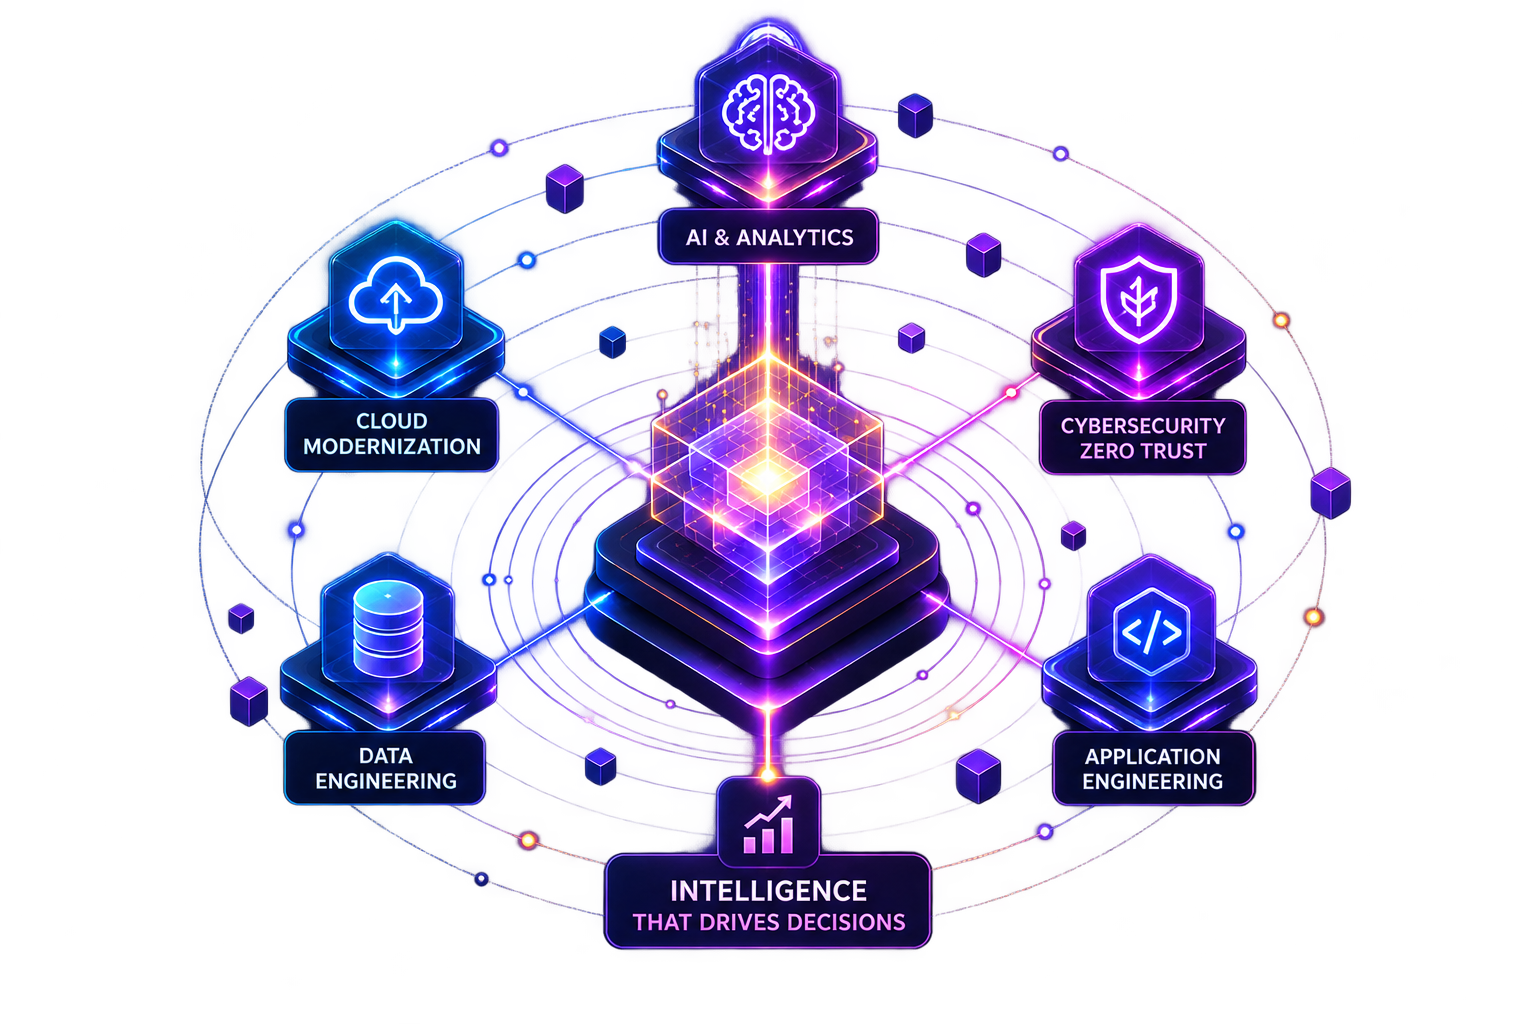
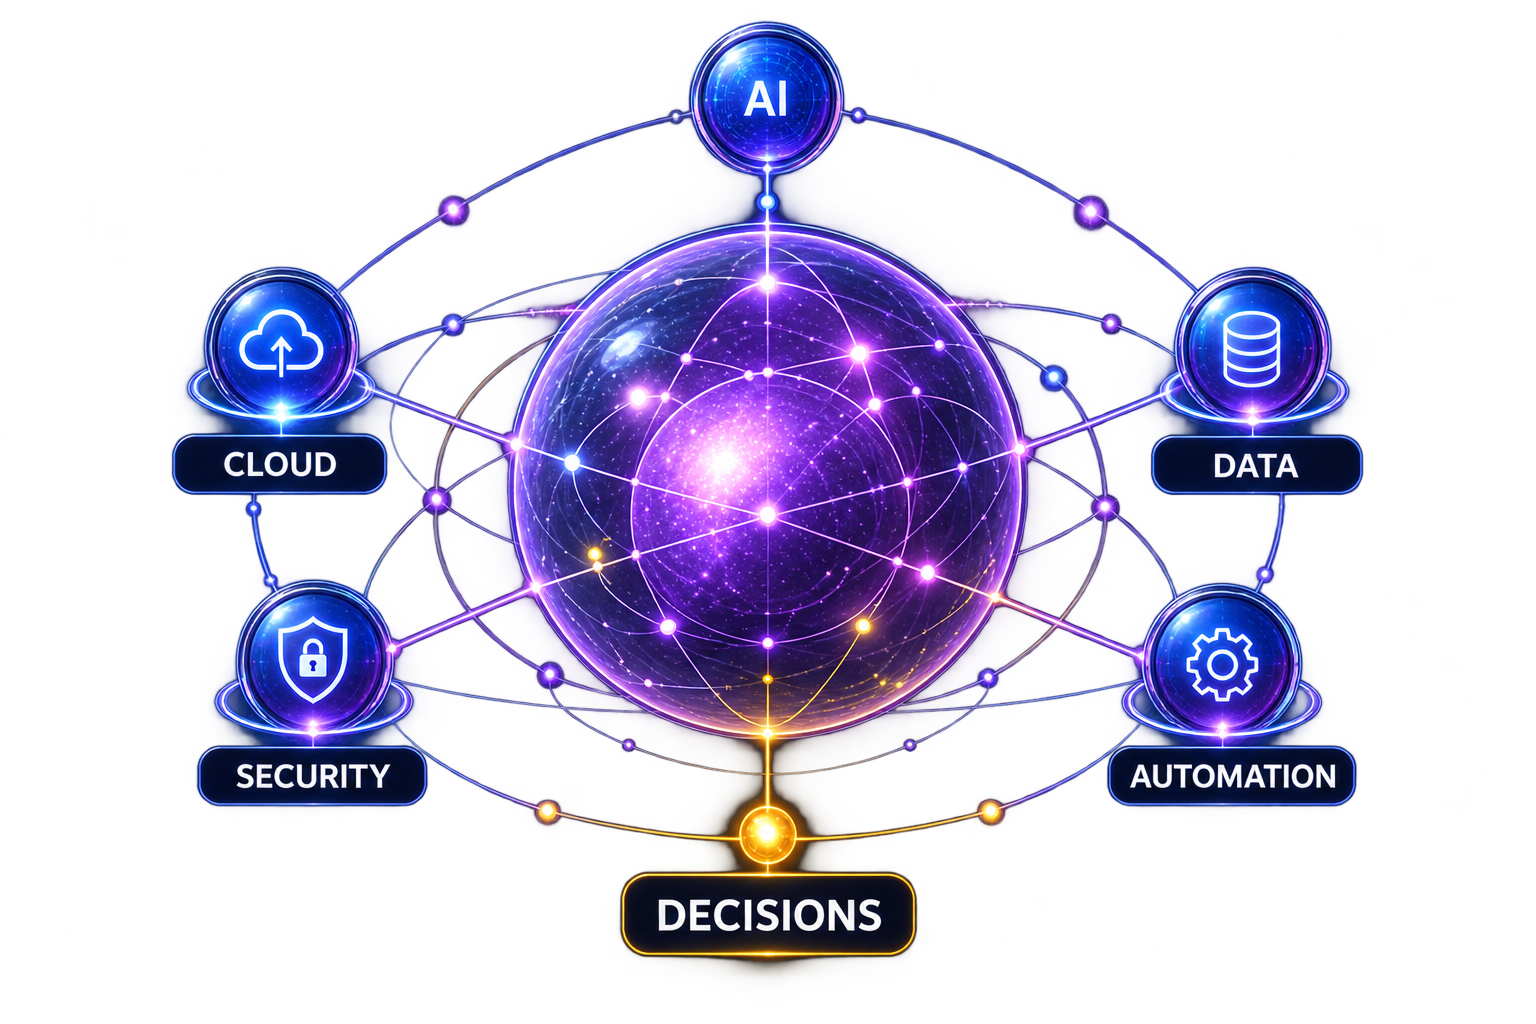
Fix

diff --git a/frontend/app/api/[...route]/route.js b/frontend/app/api/[...route]/route.js
@@ -1,0 +1,156 @@
+import { NextResponse } from 'next/server';
+import fs from 'fs';
+import path from 'path';
+
+import usersData from '../../../data/users.json';
+import leadsData from '../../../data/leads.json';
+import servicesData from '../../../data/services.json';
+import ordersData from '../../../data/orders.json';
+
+// In-memory fallback for Vercel Serverless where FS is read-only
+let memoryStore = {
+  users: usersData,
+  leads: leadsData,
+  services: servicesData,
+  orders: ordersData
+};
+
+function getStore(name) {
+  return memoryStore[name] || [];
+}
+
+function setStore(name, data) {
+  memoryStore[name] = data;
+  try {
+    const filePath = path.join(process.cwd(), 'data', `${name}.json`);
+    fs.writeFileSync(filePath, JSON.stringify(data, null, 2), 'utf-8');
+  } catch (err) {
+    console.warn(`Failed to write to ${name}.json (likely on Vercel read-only FS). Using memory store.`);
+  }
+}
+
+export async function GET(request, { params }) {
+  const url = new URL(request.url);
+  const route = params.route.join('/');
+  
+  if (route === 'admin/users') return NextResponse.json({ success: true, users: getStore('users') });
+  if (route === 'admin/leads') return NextResponse.json({ success: true, leads: getStore('leads') });
+  if (route === 'admin/orders') return NextResponse.json({ success: true, orders: getStore('orders') });
+  if (route === 'admin/services') return NextResponse.json({ success: true, services: getStore('services') });
+
+  if (route === 'user/profile') {
+    const token = request.headers.get('authorization')?.replace('Bearer ', '');
+    const user = getStore('users').find(u => 'mock-token-' + u._id === token);
+    const orders = getStore('orders').filter(o => o.userEmail === user?.email);
+    return NextResponse.json({ success: true, profile: user, orders });
+  }
+
+  return NextResponse.json({ error: 'Not Found' }, { status: 404 });
+}
+
+export async function POST(request, { params }) {
+  const route = params.route.join('/');
+  const body = await request.json().catch(() => ({}));
+
+  if (route === 'auth/register') {
+    const users = getStore('users');
+    if (users.find(u => u.email === body.email)) {
+      return NextResponse.json({ error: 'Email already exists' }, { status: 400 });
+    }
+    const newUser = { _id: Date.now().toString(), ...body, createdAt: new Date().toISOString() };
+    users.push(newUser);
+    setStore('users', users);
+    return NextResponse.json({ success: true, token: 'mock-token-' + newUser._id, user: { name: newUser.name, email: newUser.email } });
+  }
+
+  if (route === 'auth/login') {
+    const users = getStore('users');
+    const user = users.find(u => u.email === body.email && u.password === body.password);
+    if (!user) return NextResponse.json({ error: 'Invalid credentials' }, { status: 400 });
+    return NextResponse.json({ success: true, token: 'mock-token-' + user._id, user: { name: user.name, email: user.email } });
+  }
+
+  if (route === 'admin/login') {
+    return NextResponse.json({ success: true, token: 'admin-mock-token' });
+  }
+
+  if (route === 'leads') {
+    const leads = getStore('leads');
+    leads.push({ _id: Date.now().toString(), ...body, status: 'New', createdAt: new Date().toISOString() });
+    setStore('leads', leads);
+    return NextResponse.json({ success: true });
+  }
+
+  if (route === 'admin/services') {
+    const services = getStore('services');
+    services.push({ _id: Date.now().toString(), ...body });
+    setStore('services', services);
+    return NextResponse.json({ success: true });
+  }
+
+  if (route === 'checkout') {
+    const token = request.headers.get('authorization')?.replace('Bearer ', '');
+    const user = getStore('users').find(u => 'mock-token-' + u._id === token);
+    const email = user ? user.email : body.email || 'guest@example.com';
+    
+    const orders = getStore('orders');
+    orders.push({
+      _id: Date.now().toString(),
+      orderId: `ORD-${Date.now()}`,
+      userEmail: email,
+      items: body.items,
+      totalPrice: body.items.reduce((acc, i) => acc + (parseFloat(i.price) * (i.quantity||1)), 0),
+      createdAt: new Date().toISOString()
+    });
+    setStore('orders', orders);
+    return NextResponse.json({ success: true });
+  }
+
+  return NextResponse.json({ error: 'Not Found' }, { status: 404 });
+}
+
+export async function PUT(request, { params }) {
+  const route = params.route.join('/');
+  const body = await request.json().catch(() => ({}));
+
+  if (route.startsWith('admin/leads/')) {
+    const id = params.route[params.route.length - 1];
+    let leads = getStore('leads');
+    leads = leads.map(l => l._id === id ? { ...l, ...body } : l);
+    setStore('leads', leads);
+    return NextResponse.json({ success: true });
+  }
+
+  if (route.startsWith('admin/services/')) {
+    const id = params.route[params.route.length - 1];
+    let services = getStore('services');
+    services = services.map(s => s._id === id ? { ...s, ...body } : s);
+    setStore('services', services);
+    return NextResponse.json({ success: true });
+  }
+
+  if (route === 'user/profile') {
+    const token = request.headers.get('authorization')?.replace('Bearer ', '');
+    const userId = token.replace('mock-token-', '');
+    let users = getStore('users');
+    users = users.map(u => u._id === userId ? { ...u, ...body } : u);
+    setStore('users', users);
+    return NextResponse.json({ success: true });
+  }
+
+  return NextResponse.json({ error: 'Not Found' }, { status: 404 });
+}
+
+export async function DELETE(request, { params }) {
+  const route = params.route.join('/');
+
+  if (route.startsWith('admin/services/')) {
+    const id = params.route[params.route.length - 1];
+    let services = getStore('services');
+    services = services.filter(s => s._id !== id);
+    setStore('services', services);
+    return NextResponse.json({ success: true });
+  }
+
+  return NextResponse.json({ error: 'Not Found' }, { status: 404 });
+}

diff --git a/frontend/app/dashboard/page.js b/frontend/app/dashboard/page.js
@@ -42,7 +42,7 @@ export default function DashboardPage() {
       if (!user) return;
       try {
         const token = localStorage.getItem('token');
-        const res = await fetch(`${process.env.NEXT_PUBLIC_API_URL || 'http://localhost:5015'}/api/user/profile`, {
+        const res = await fetch(`${''}/api/user/profile`, {
           headers: {
             'Authorization': `Bearer ${token}`
           }
@@ -68,7 +68,7 @@ export default function DashboardPage() {
     setSaving(true);
     try {
       const token = localStorage.getItem('token');
-      const res = await fetch(`${process.env.NEXT_PUBLIC_API_URL || 'http://localhost:5015'}/api/user/profile`, {
+      const res = await fetch(`${''}/api/user/profile`, {
         method: 'PUT',
         headers: {
           'Content-Type': 'application/json',
@@ -158,7 +158,7 @@ export default function DashboardPage() {
                     className={`w-full flex items-center gap-3 px-4 py-2.5 rounded-lg text-[13.5px] font-semibold transition-all ${activeTab === 'orders' ? 'bg-[#faf7f2] text-[#8c6b12] border border-[#e5dccf]' : 'text-[#5c5449] hover:bg-[#faf7f2]/50 hover:text-[#1c1a18] border border-transparent'}`}
                   >
                     <Package className="h-4 w-4" />
-                    Consultation History
+                    Order History
                   </button>
                   <button
                     onClick={() => setActiveTab('settings')}
@@ -185,14 +185,14 @@ export default function DashboardPage() {
               {activeTab === 'orders' && (
                 <div className="bg-white border border-[#e5dccf] shadow-[0_4px_20px_rgba(0,0,0,0.02)] rounded-xl p-8">
                   <div className="mb-6 border-b border-[#e5dccf] pb-4">
-                    <h3 className="text-xl font-cabinet font-medium text-[#1c1a18] tracking-tight">Consultation History</h3>
-                    <p className="text-[13px] text-[#71675b] mt-1 font-light">View your past strategy and architecture consultations.</p>
+                    <h3 className="text-xl font-cabinet font-medium text-[#1c1a18] tracking-tight">Order History</h3>
+                    <p className="text-[13px] text-[#71675b] mt-1 font-light">View your past orders and their status.</p>
                   </div>
                   
                   {orders.length === 0 ? (
                     <div className="text-center py-16 text-[#71675b]">
                       <Package className="h-10 w-10 mx-auto mb-4 text-[#dad2c3]" />
-                      <p className="text-[14px]">You have no past consultations.</p>
+                      <p className="text-[14px]">You have no past orders.</p>
                     </div>
                   ) : (
                     <div className="overflow-x-auto">
@@ -251,7 +251,7 @@ export default function DashboardPage() {
                                           <ul className="list-disc list-inside space-y-1">
                                             {order.items?.map((item, idx) => (
                                               <li key={idx}><span className="font-semibold text-[#1c1a18]">{item.title}</span> - ₹{item.price.toLocaleString()}</li>
-                                            )) || <li>Standard Consultation</li>}
+                                            )) || <li>Standard Order</li>}
                                           </ul>
                                         </div>
                                         <div className="md:col-span-2">

diff --git a/frontend/app/admin/page.js b/frontend/app/admin/page.js
@@ -30,7 +30,7 @@ export default function AdminPage() {
     e.preventDefault();
     setLoading(true);
     try {
-      const res = await fetch(`${process.env.NEXT_PUBLIC_API_URL || 'http://localhost:5015'}/api/admin/login`, {
+      const res = await fetch(`${''}/api/admin/login`, {
         method: 'POST',
         headers: { 'Content-Type': 'application/json' },
         body: JSON.stringify({ password, otp })
@@ -58,7 +58,7 @@ export default function AdminPage() {
   // 2. Data Fetching
   const fetchAllData = async (jwt) => {
     const headers = { 'Authorization': `Bearer ${jwt}` };
-    const baseUrl = process.env.NEXT_PUBLIC_API_URL || 'http://localhost:5015';
+    const baseUrl = '';
     try {
       const [leadsRes, usersRes, ordersRes, servicesRes] = await Promise.all([
         fetch(`${baseUrl}/api/admin/leads`, { headers }),
@@ -91,7 +91,7 @@ export default function AdminPage() {
   // 3. Handlers
   const updateLeadField = async (id, data) => {
     try {
-      const res = await fetch(`${process.env.NEXT_PUBLIC_API_URL || 'http://localhost:5015'}/api/admin/leads/${id}`, {
+      const res = await fetch(`${''}/api/admin/leads/${id}`, {
         method: 'PUT',
         headers: { 'Content-Type': 'application/json', 'Authorization': `Bearer ${token}` },
         body: JSON.stringify(data)
@@ -117,8 +117,8 @@ export default function AdminPage() {
       
       const method = editingServiceId ? 'PUT' : 'POST';
       const url = editingServiceId 
-        ? `${process.env.NEXT_PUBLIC_API_URL || 'http://localhost:5015'}/api/admin/services/${editingServiceId}`
-        : `${process.env.NEXT_PUBLIC_API_URL || 'http://localhost:5015'}/api/admin/services`;
+        ? `${''}/api/admin/services/${editingServiceId}`
+        : `${''}/api/admin/services`;
         
       const res = await fetch(url, {
         method,
@@ -139,7 +139,7 @@ export default function AdminPage() {
 
   const removeService = async (id) => {
     try {
-      const res = await fetch(`${process.env.NEXT_PUBLIC_API_URL || 'http://localhost:5015'}/api/admin/services/${id}`, {
+      const res = await fetch(`${''}/api/admin/services/${id}`, {
         method: 'DELETE',
         headers: { 'Authorization': `Bearer ${token}` }
       });
@@ -233,7 +233,7 @@ export default function AdminPage() {
             <div className="flex justify-between items-center mb-6">
               <h2 className="text-2xl font-cabinet font-medium">Leads Pipeline</h2>
               <button 
-                onClick={() => window.open(`${process.env.NEXT_PUBLIC_API_URL || 'http://localhost:5015'}/api/admin/leads/export?token=${token}`, '_blank')}
+                onClick={() => window.open(`${''}/api/admin/leads/export?token=${token}`, '_blank')}
                 className="bg-[#047857] hover:bg-[#036246] text-white px-4 py-2 rounded text-[12px] font-bold transition-colors"
               >
                 Download CSV

diff --git a/frontend/fix.js b/frontend/fix.js
@@ -1,0 +1,26 @@
+const fs = require('fs');
+const path = require('path');
+function walk(dir) {
+  let results = [];
+  const list = fs.readdirSync(dir);
+  list.forEach(file => {
+    file = path.join(dir, file);
+    const stat = fs.statSync(file);
+    if (stat && stat.isDirectory() && !file.includes('node_modules') && !file.includes('.next')) {
+      results = results.concat(walk(file));
+    } else if (file.endsWith('.js') || file.endsWith('.jsx')) {
+      results.push(file);
+    }
+  });
+  return results;
+}
+const files = walk('.');
+files.forEach(file => {
+  let content = fs.readFileSync(file, 'utf8');
+  const original = content;
+  content = content.replace(/process\.env\.NEXT_PUBLIC_API_URL\s*\|\|\s*'http:\/\/localhost:5015'/g, "''");
+  if (content !== original) {
+    fs.writeFileSync(file, content, 'utf8');
+    console.log('Updated ' + file);
+  }
+});

diff --git a/frontend/app/page.js b/frontend/app/page.js
@@ -156,7 +156,7 @@ export default function HomePage() {
   const [services, setServices] = useState([]);
 
   useEffect(() => {
-    fetch(`${process.env.NEXT_PUBLIC_API_URL || 'http://localhost:5015'}/api/admin/services`)
+    fetch(`${''}/api/admin/services`)
       .then(res => res.json())
       .then(data => {
         if (data.success) setServices(data.services);
@@ -184,7 +184,7 @@ export default function HomePage() {
     }
     setSubmitting(true);
     try {
-      const res = await fetch(`${process.env.NEXT_PUBLIC_API_URL || 'http://localhost:5015'}/api/leads`, {
+      const res = await fetch(`${''}/api/leads`, {
         method: 'POST',
         headers: { 'Content-Type': 'application/json' },
         body: JSON.stringify(form),

diff --git a/frontend/components/site/login-modal.js b/frontend/components/site/login-modal.js
@@ -21,7 +21,7 @@ export default function LoginModal({ isOpen, setIsOpen }) {
     setLoading(true);
 
     try {
-      const baseUrl = process.env.NEXT_PUBLIC_API_URL || 'http://localhost:5015';
+      const baseUrl = '';
       const endpoint = isLogin ? `${baseUrl}/api/auth/login` : `${baseUrl}/api/auth/register`;
       const payload = isLogin ? { email, password } : { name, email, password };
 

diff --git a/frontend/app/what-we-do/[slug]/page.js b/frontend/app/what-we-do/[slug]/page.js
@@ -18,7 +18,7 @@ export default function ServiceSubPage({ params }) {
   const [dbPrice, setDbPrice] = useState(null);
 
   useEffect(() => {
-    fetch(`${process.env.NEXT_PUBLIC_API_URL || 'http://localhost:5015'}/api/admin/services`)
+    fetch(`${''}/api/admin/services`)
       .then(res => res.json())
       .then(data => {
         if (data.success && data.services) {

diff --git a/frontend/app/contact/page.js b/frontend/app/contact/page.js
@@ -19,7 +19,7 @@ export default function Page() {
     }
     setSubmitting(true);
     try {
-      const res = await fetch(`${process.env.NEXT_PUBLIC_API_URL || 'http://localhost:5015'}/api/leads`, {
+      const res = await fetch(`${''}/api/leads`, {
         method: 'POST',
         headers: { 'Content-Type': 'application/json' },
         body: JSON.stringify(form),

diff --git a/frontend/app/our-solutions/page.js b/frontend/app/our-solutions/page.js
@@ -21,7 +21,7 @@ export default function OurSolutionsPage() {
   const [dbPrices, setDbPrices] = useState({});
 
   useEffect(() => {
-    fetch(`${process.env.NEXT_PUBLIC_API_URL || 'http://localhost:5015'}/api/admin/services`)
+    fetch(`${''}/api/admin/services`)
       .then(res => res.json())
       .then(data => {
         if (data.success && data.services) {

diff --git a/frontend/app/checkout/page.js b/frontend/app/checkout/page.js
@@ -37,7 +37,7 @@ export default function CheckoutPage() {
     };
 
     try {
-      const res = await fetch(`${process.env.NEXT_PUBLIC_API_URL || 'http://localhost:5015'}/api/checkout`, {
+      const res = await fetch(`${''}/api/checkout`, {
         method: 'POST',
         headers: { 'Content-Type': 'application/json' },
         body: JSON.stringify(payload)

diff --git a/frontend/next.config.js b/frontend/next.config.js
@@ -11,8 +11,7 @@ if (envConfig.NODE_ENV) {
 
 const nextConfig = {
   env: envConfig,
-  output: 'export',
-  // distDir: '../.next',
+  distDir: '../.next',
 
   images: {
     unoptimized: true,
